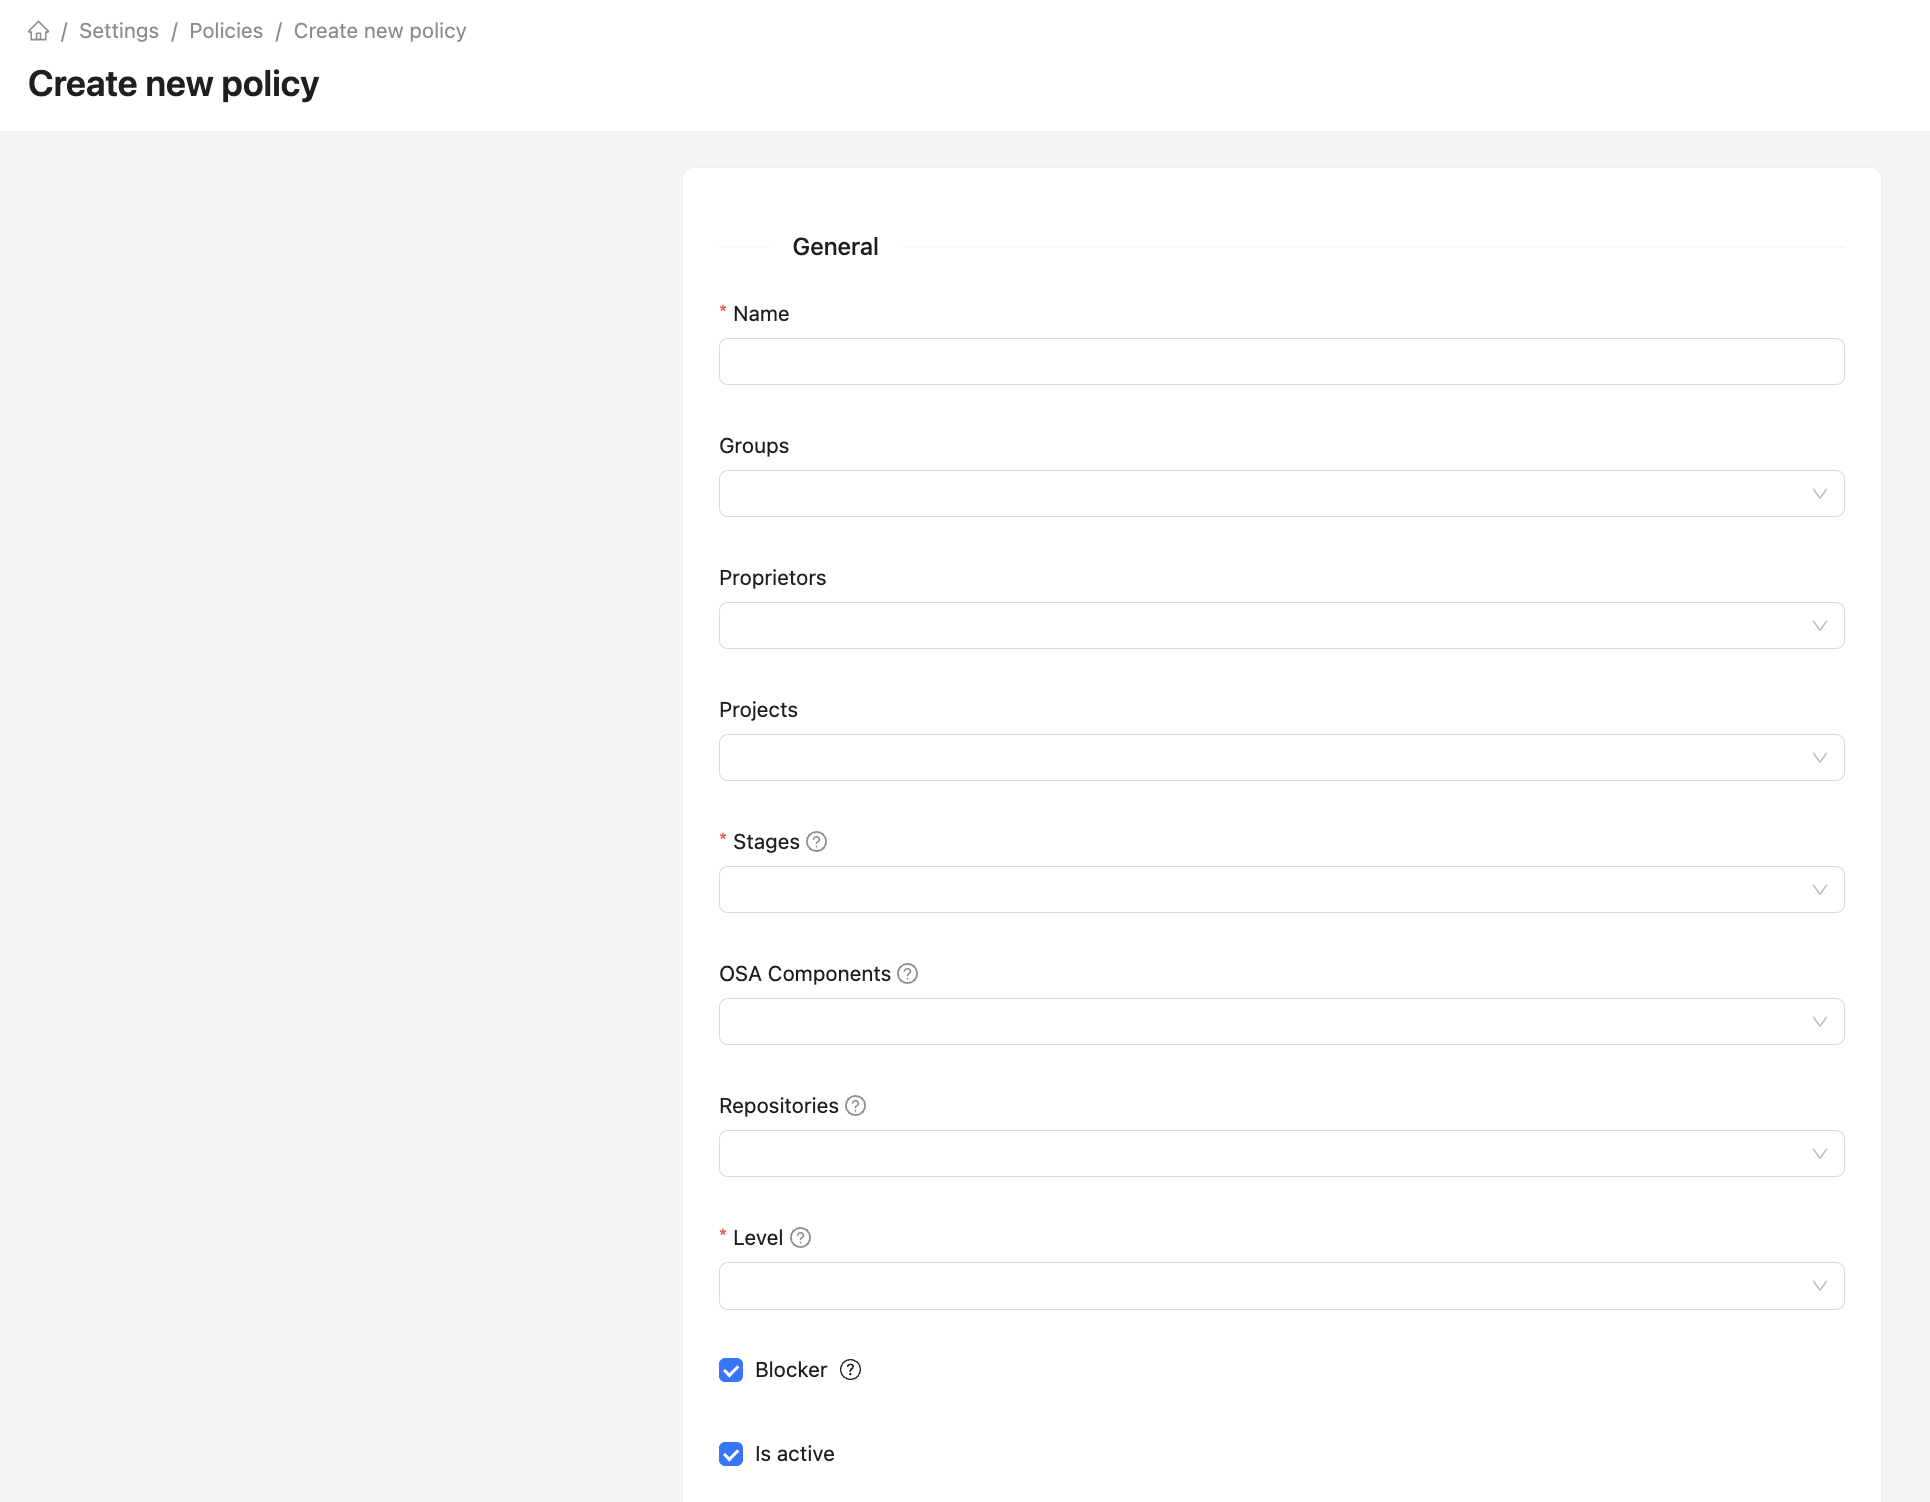
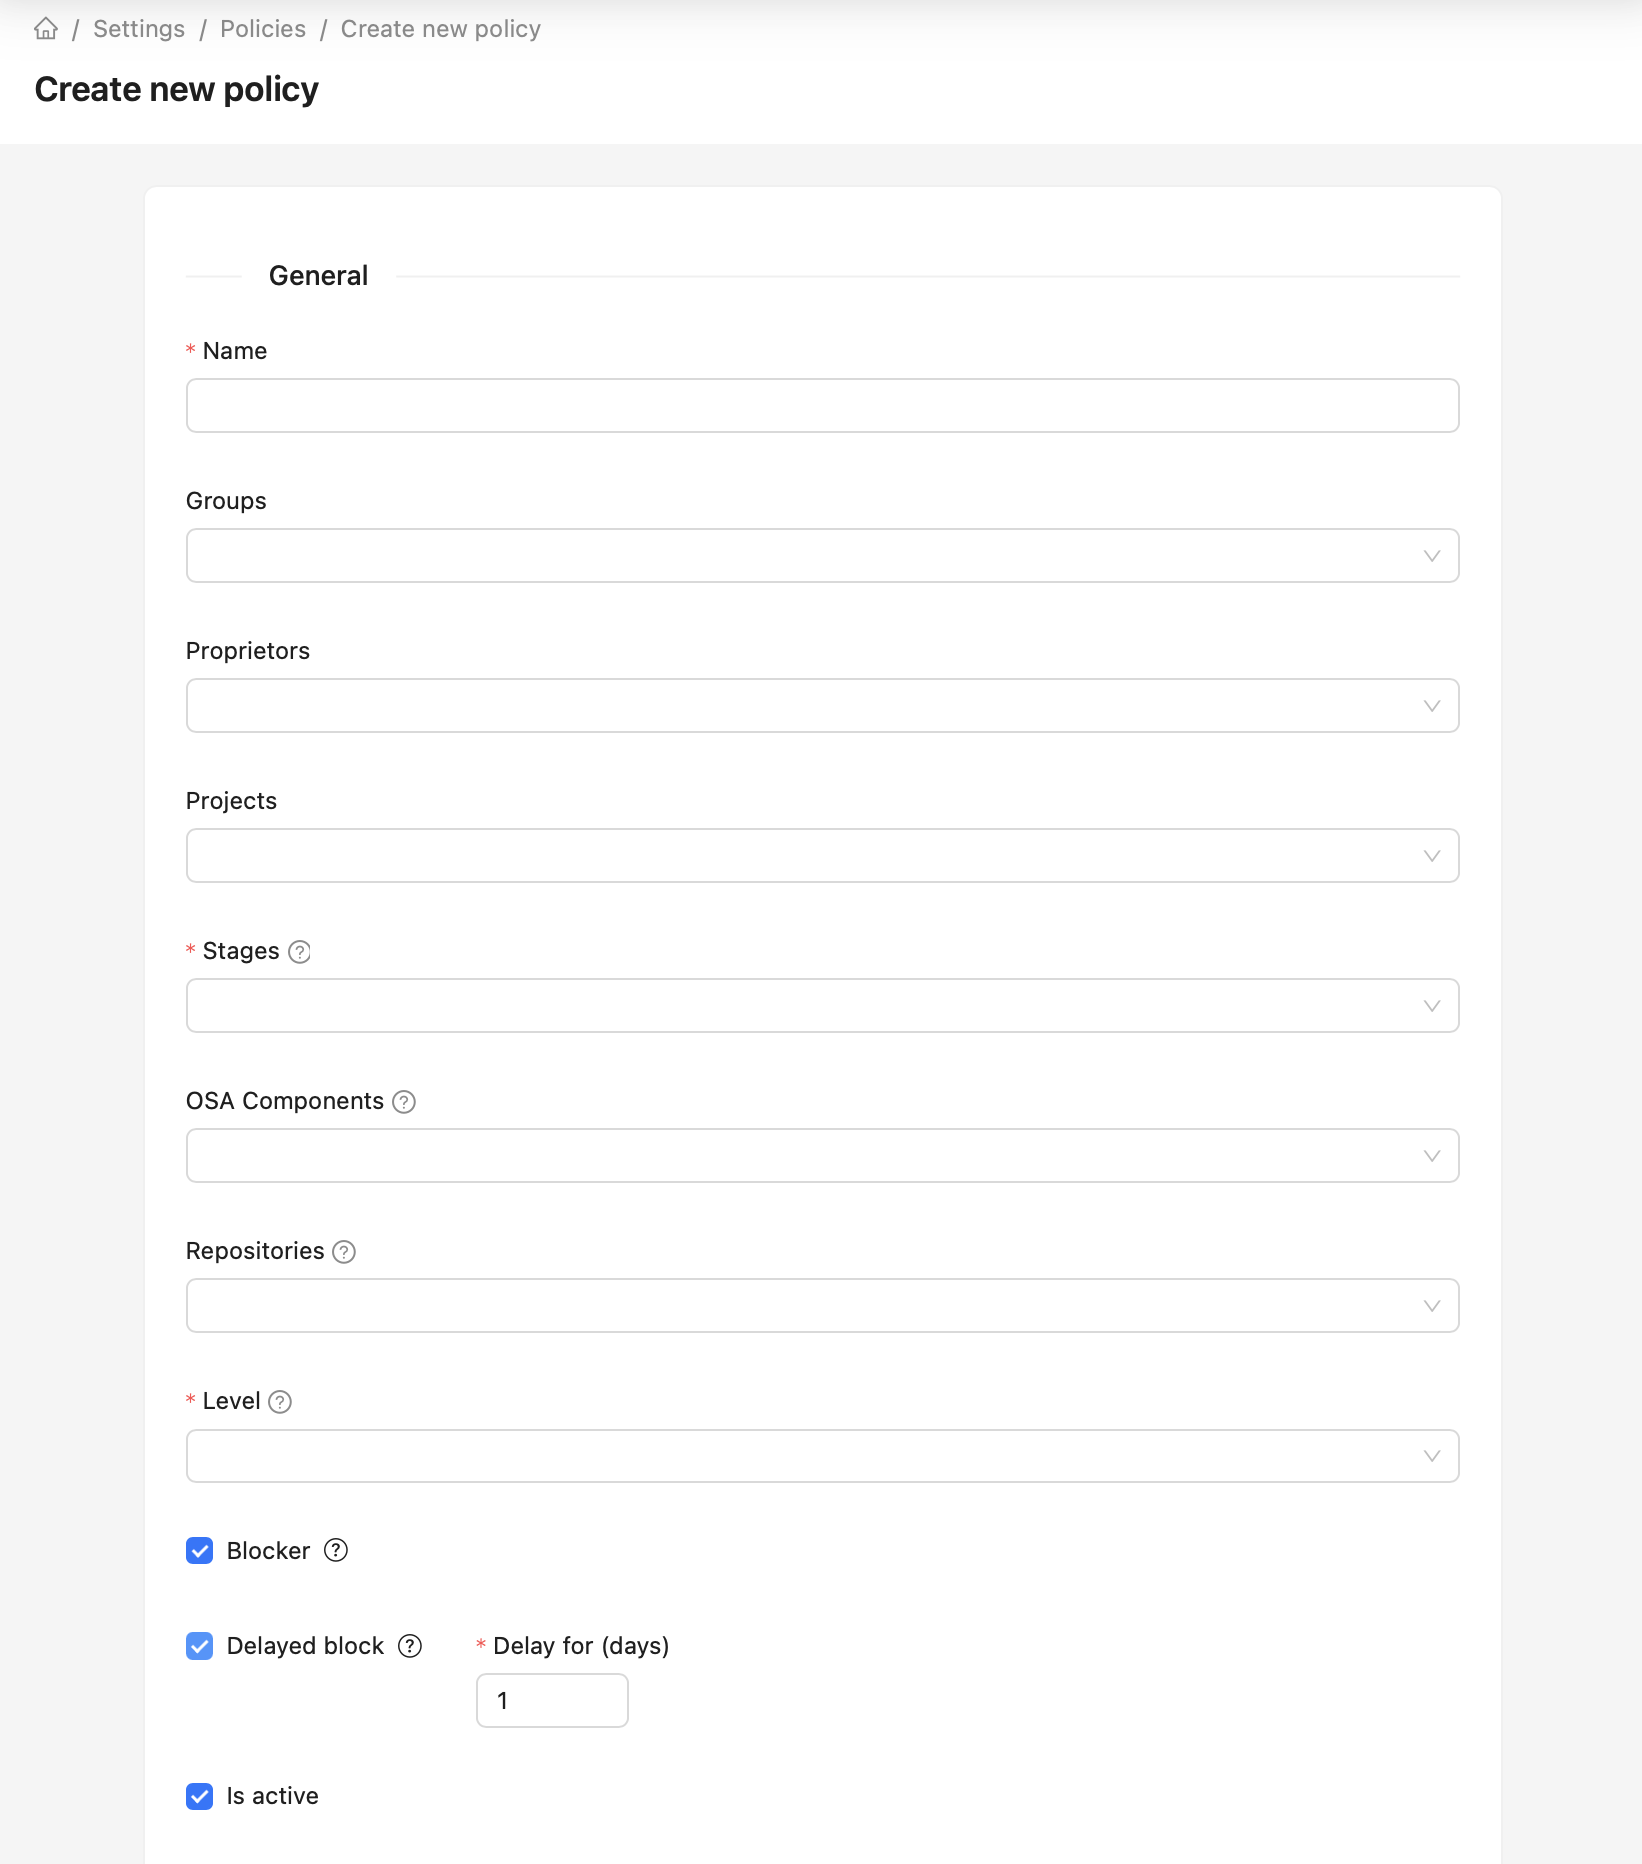
[2025.29.0] Добавлено описание отложенной блокировки. Обновлены скрины создания политики

diff --git a/docs/on-premise/how-to/policies.md b/docs/on-premise/how-to/policies.md
@@ -62,6 +62,7 @@ hide:
 - **Репозитории** – список репозиториев с плагином OSA, на которые применяется политика;
 - **Уровень** — уровень критичности политики (не влияет на действия в системе);
 - **Блокер** — блокировка сборки или загрузки компонента из прокси-репозитория;
+- **Отложенная блокировка** — задержка (в днях) от первого срабатывания политики до блокировки;
 - **Активно** — состояние политики;
 - **Описание** — описание политики;
 - **Условия** — перечень условий в политике.

diff --git a/docs/on-premise/how-to/policies.en.md b/docs/on-premise/how-to/policies.en.md
@@ -62,6 +62,7 @@ The policy creation form specifies the policy context using the following parame
 - **Repositories** — list of repositories with the OSA plugin to which the policy applies;
 - **Level** — policy criticality level (does not affect actions in the system);
 - **Blocker** — blocking CI build or download of a component from a proxy repository;
+- **Delayed block** — delay (days) from the first policy trigger to blocking;
 - **Is active** — policy status;
 - **Description** — policy description;
 - **Conditions** — list of conditions in the policy.
